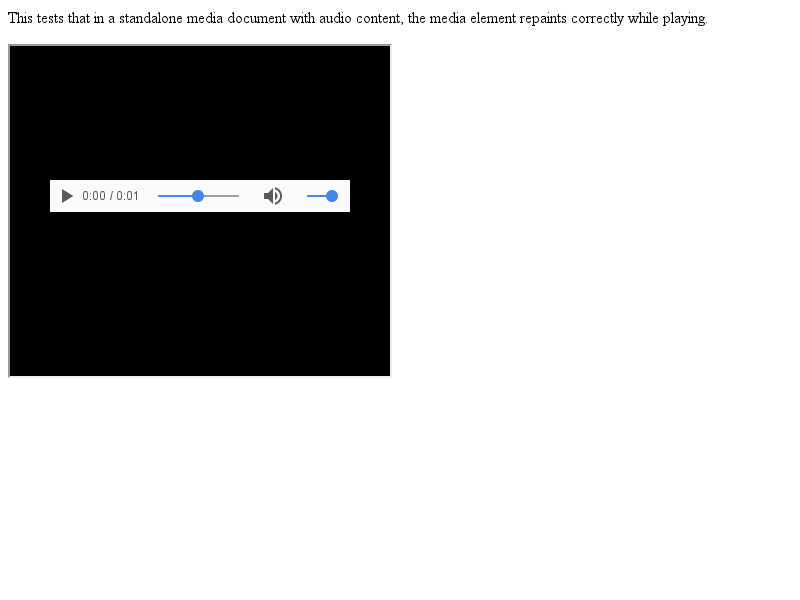
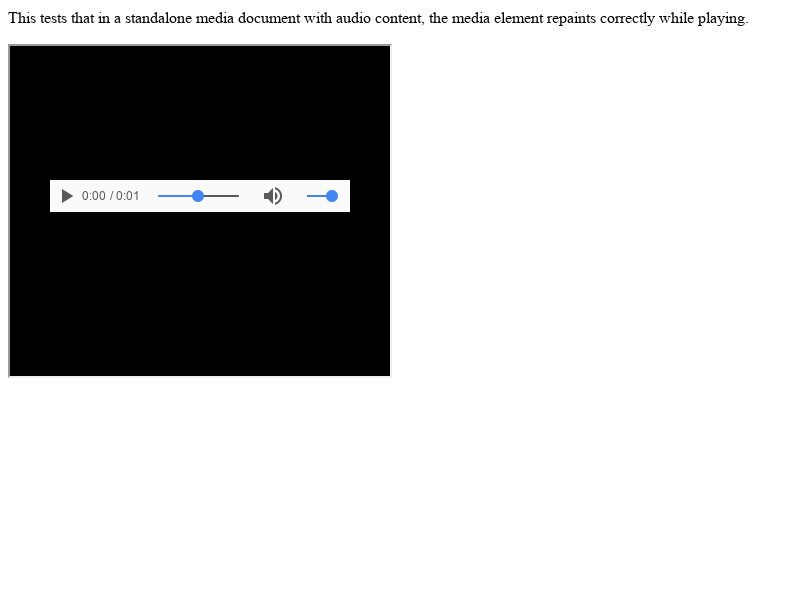
Fix media element position on MediaDocument
The element should be centered
Adding back media/media-document-audio-repaint.html which is accidentally removed.
And rebaseline the text expectation so it can capture future regressions.

BUG=760484

Cq-Include-Trybots: master.tryserver.chromium.linux:linux_layout_tests_slimming_paint_v2
Commit-Queue: Min Qin <qinmin@chromium.org>
Cr-Original-Commit-Position: refs/heads/master@{#499149}
Cr-Mirrored-From: https://chromium.googlesource.com/chromium/src
Cr-Mirrored-Commit: f628f1cfaf8aa160417049718324d6c2023142f7

Changed region(s): [[0.0312, 0.0, 0.9375, 0.06]]

diff --git a/WebKit/LayoutTests/media/media-document-audio-repaint.html b/WebKit/LayoutTests/media/media-document-audio-repaint.html
@@ -1,0 +1,41 @@
+<script src="../resources/run-after-layout-and-paint.js"></script>
+<script>
+    // Disable under-invalidation checking because we allow short period of
+    // under-invalidation of buffered ranges.
+    if (window.internals)
+        internals.runtimeFlags.paintUnderInvalidationCheckingEnabled = false;
+
+    if (window.testRunner)
+        testRunner.waitUntilDone();
+
+    function onPause()
+    {
+        var videoElement = document.getElementById("fr").contentDocument.querySelector("video");
+        runAfterLayoutAndPaint(function() {
+            videoElement.currentTime = videoElement.duration * 0.50;
+        });
+    }
+
+    function onSeeked()
+    {
+        if (window.testRunner)
+            testRunner.notifyDone();
+    }
+
+    function frameLoaded()
+    {
+        var videoElement = document.getElementById("fr").contentDocument.querySelector("video");
+        videoElement.addEventListener("pause", onPause, false);
+        videoElement.addEventListener("seeked", onSeeked, false);
+        // The MediaDocument has AUTOPLAY set, make sure we're paused.
+        videoElement.pause();
+    }
+</script>
+<p>
+    This tests that in a standalone media document with audio content, the media element repaints correctly
+    while playing.
+</p>
+<iframe src="content/silence.wav" id="fr" width=380 height=330 onload="frameLoaded()"></iframe>
+<script>// To produce the same layout as before iframe was moved down to avoid rebaselines of different platforms.
+// https://bugs.webkit.org/show_bug.cgi?id=54942
+</script>

diff --git a/WebKit/Source/modules/media_controls/resources/mediaControls.css b/WebKit/Source/modules/media_controls/resources/mediaControls.css
@@ -87,6 +87,15 @@ audio::-webkit-media-controls-panel, video::-webkit-media-controls-panel {
     font-style: normal;
 }
 
+video:-webkit-full-page-media {
+    margin: auto;
+    position: absolute;
+    top: 0;
+    right: 0;
+    bottom: 0;
+    left: 0;
+}
+
 audio:-webkit-full-page-media, video:-webkit-full-page-media {
     max-height: 100%;
     max-width: 100%;

diff --git a/WebKit/Source/platform/graphics/paint/PaintController.cpp b/WebKit/Source/platform/graphics/paint/PaintController.cpp
@@ -970,7 +970,10 @@ void PaintController::ShowUnderInvalidationError(
 #else
   LOG(ERROR) << "Run debug build to get more details.";
 #endif
-  LOG(ERROR) << "See http://crbug.com/619103.";
+  LOG(ERROR) << "See http://crbug.com/619103. For media layout tests, this "
+                "could fail due to change in buffered range. In that case, set "
+                "internals.runtimeFlags.paintUnderInvalidationCheckingEnabled "
+                "to false in layout test.";
 
 #ifndef NDEBUG
   const PaintRecord* new_record = nullptr;

diff --git a/WebKit/Source/core/html/media/MediaDocument.cpp b/WebKit/Source/core/html/media/MediaDocument.cpp
@@ -124,7 +124,6 @@ void MediaDocumentParser::CreateDocumentStructure() {
   media->AppendChild(source);
 
   HTMLBodyElement* body = HTMLBodyElement::Create(*GetDocument());
-  body->setAttribute(styleAttr, "margin: 0px;");
 
   GetDocument()->WillInsertBody();
 
